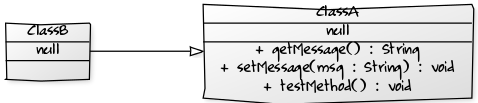
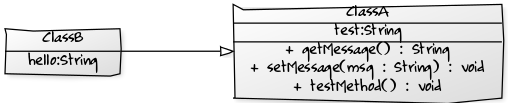
minor changes for intermediateGrammer

Changed region(s): [[0.3808, 0.0291, 0.9958, 1.0], [0.0, 0.2039, 0.2636, 0.8155]]

diff --git a/umlparser/src/generatorClasses/MyJavaCodeParser.java b/umlparser/src/generatorClasses/MyJavaCodeParser.java
@@ -195,7 +195,14 @@ public class MyJavaCodeParser {
     private String getResultString(String classNames, String variablesString, String methodsString)
     {
     	String result;
-    	result = "["+ classNames + "|" + variablesString + "|" + methodsString + "],";
+    	if(variablesString.length() == 0 && methodsString.length() == 0)
+    	    result = "["+ classNames  + "],";
+    	else if(variablesString.length() == 0)
+    		result = "["+ classNames + "|" + methodsString + "],";
+    	else if(methodsString.length() == 0)
+    		result = "["+ classNames + "|" + variablesString + "],";
+    	else
+    		result = "["+ classNames + "|" + variablesString + "|" + methodsString + "],";
     	return result;
     }
     
@@ -333,7 +340,7 @@ public class MyJavaCodeParser {
                 //System.out.println(variableType);
                 String variableName = fd.getChildrenNodes().get(1).toString();
                 //System.out.println(variableName);
-                
+                variableString = variableAccessModifier + variableName +":"+variableType;
                 boolean dependencyExist = false;
                 if(variableName.contains("<"))
                 {
@@ -342,7 +349,7 @@ public class MyJavaCodeParser {
                 }
             }   
 	    }
-		return null;
+		return variableString;
 	}
 }
 
